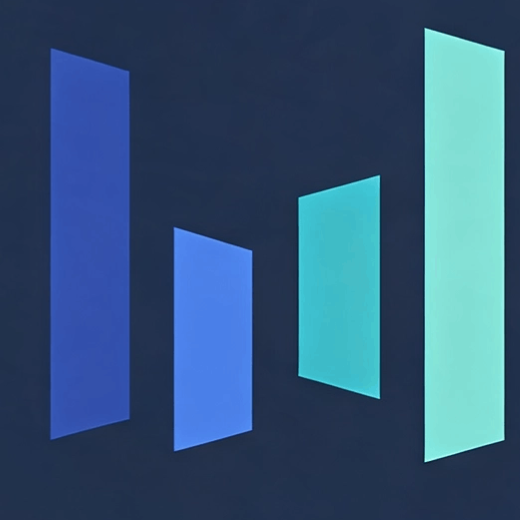
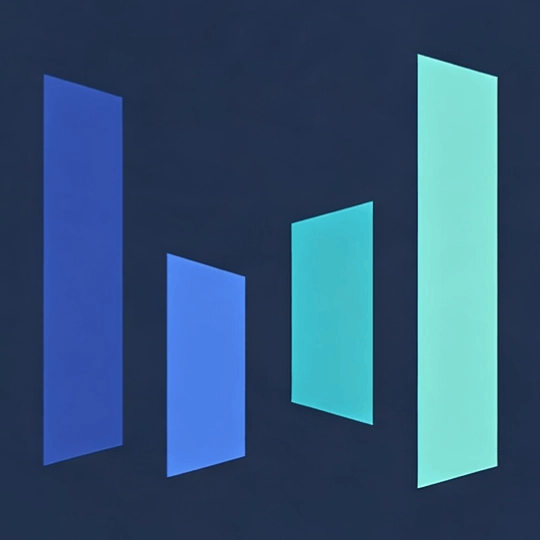
Лого Seedance: плотная перевырезка символа (бары крупнее, по центру)
- seedance.png пере-вырезан симметрично по барам (540×540, без смещения к краю) — в иконке и витрине знак занимает больше места, не «сжат/урезан»
- ?v=2 у seedance.png (CSS .model-icon.seedance + showcase config) для сброса кэша картинки
- кэш index.js ?v=20260626q

diff --git a/index.html b/index.html
@@ -657,7 +657,7 @@
         }
 
         .model-icon.seedance {
-            background: #1a2740 url('seedance.png') center / cover no-repeat;
+            background: #1a2740 url('seedance.png?v=2') center / cover no-repeat;
             border: 1px solid #2e4060;
             color: transparent;
             font-size: 0;
@@ -1261,6 +1261,6 @@
     <!-- Toast -->
     <div class="toast" id="toast"></div>
 
-    <script src="index.js?v=20260626p"></script>
+    <script src="index.js?v=20260626q"></script>
 </body>
 </html>

diff --git a/index.js b/index.js
@@ -321,7 +321,7 @@ const modelConfigs = {
         defaultAspect: '16:9',
         defaultRes: '720p',
         defaultDuration: '5s',
-        showcase: { logo: 'seedance.png', video: 'seedance-preview.mp4', sub: 'Пример — ролик по раскадровке (мотозаезд)' }
+        showcase: { logo: 'seedance.png?v=2', video: 'seedance-preview.mp4', sub: 'Пример — ролик по раскадровке (мотозаезд)' }
     },
     'grok-video': {
         apiSlug: 'grok-video',
